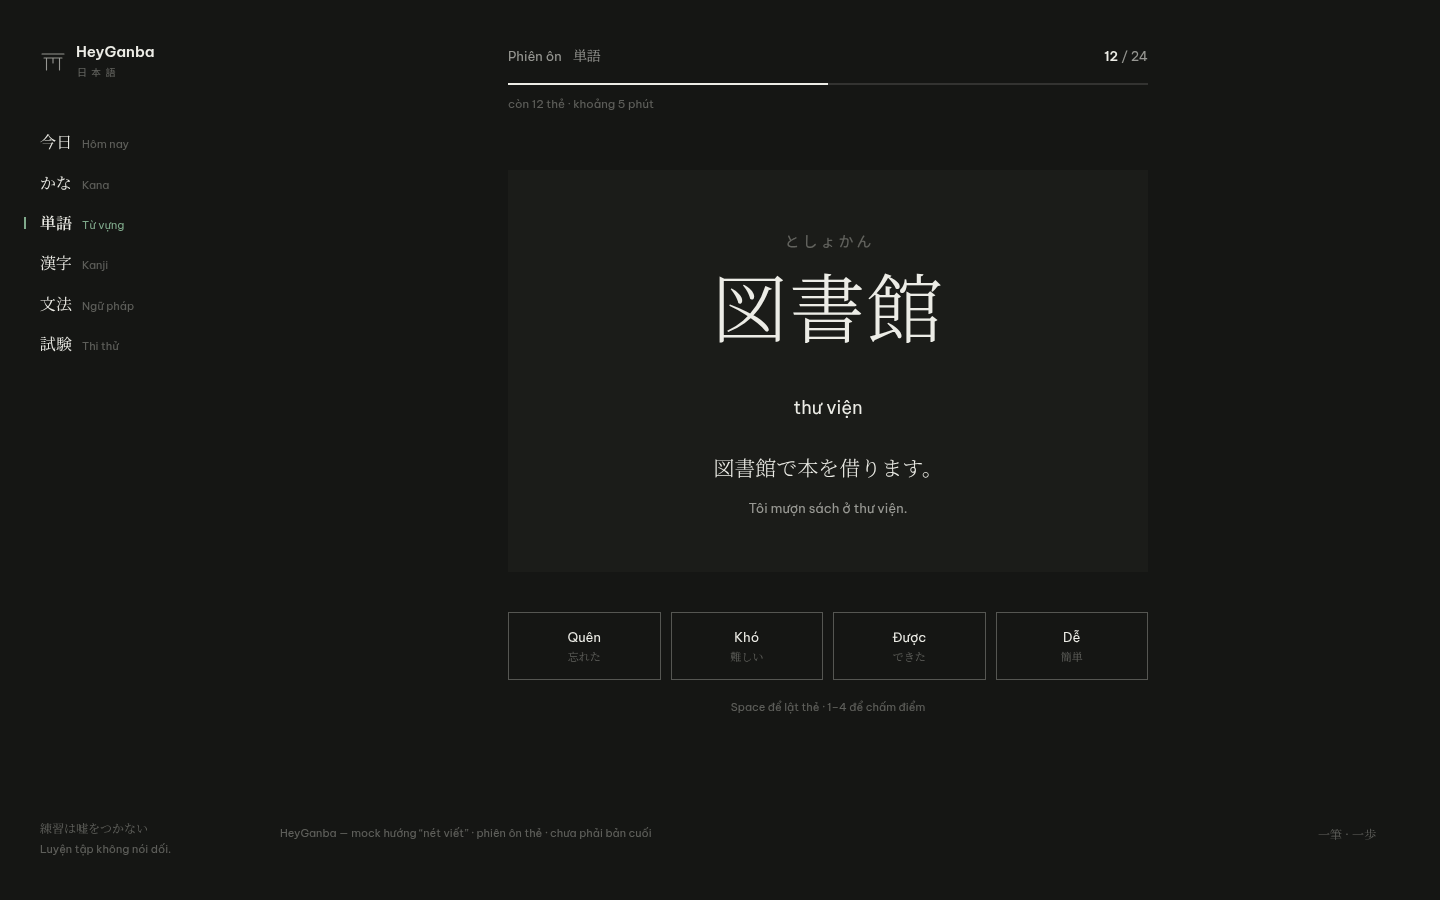
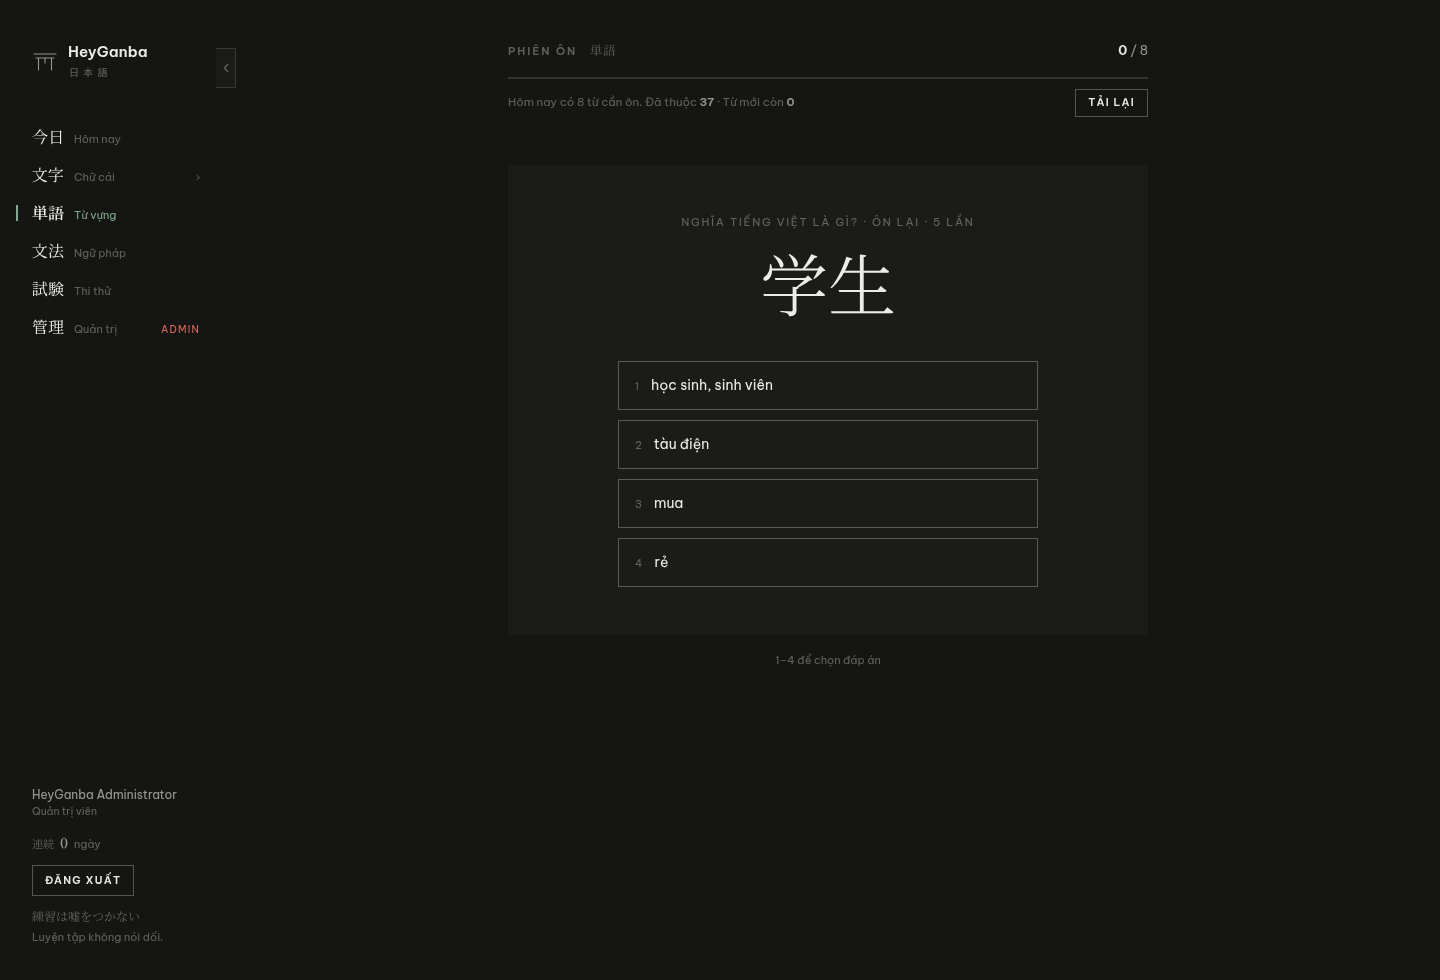
docs(design): refresh PRODUCT/DESIGN/AGENTS and flashcard screenshots
- PRODUCT: multiple-choice session + per-character mastery
- DESIGN: Tailwind workflow, result popup, edge tab toggle
- Lessons: Tailwind cascade-layer trap; SRS in-memory cache when resetting the test DB
- Drop stale mock-flashcard.html; use real-screen screenshots

diff --git a/DESIGN.md b/DESIGN.md
@@ -1,7 +1,7 @@
 # Design — HeyGanba
 
 Hệ thị giác "mực trên giấy", đảo tối. Chữ Nhật là nhân vật chính, chữ Việt là sàn đọc.
-Mock tham chiếu: [`docs/Design/mock-dashboard.html`](docs/Design/mock-dashboard.html) · [`docs/Design/mock-flashcard.html`](docs/Design/mock-flashcard.html)
+Mock tham chiếu: [`docs/Design/mock-dashboard.html`](docs/Design/mock-dashboard.html) · ảnh màn thật trong [`docs/Design/`](docs/Design/)
 
 ![Dashboard](docs/Design/mock-dashboard-desktop.png)
 
@@ -71,7 +71,9 @@ Không dùng font mảnh ở cỡ nhỏ — body tối thiểu 12.5px; nét mả
 
 **Cấp độ** — số serif `22px` + thanh EXP cao `2px`, track `--rule`, fill `--rank`. EXP chỉ cộng từ hoạt động học thật (thẻ ôn, chữ viết, câu trả lời đúng).
 
-**Thẻ học & phiên ôn** — thẻ nền `--card`, padding `60px 56px 52px`; từ `76px` serif, furigana `15px --fg-38`, nghĩa `18px`, ví dụ `21px`, dịch `13px --fg-60`. Chấm điểm: 4 nút `Quên / Khó / Được / Dễ` ngang hàng, viền `1px --rule-strong`, hover đảo mực/giấy. Phím tắt hiện dưới dạng gợi ý nhỏ: `Space để lật thẻ · 1–4 để chấm điểm`.
+**Thông thạo từng chữ** — không hiện thanh trên lưới bảng chữ; chi tiết (âm đọc, thông thạo…) hiện khi chọn một chữ. Trên lưới, mức thông thạo thể hiện bằng **nền ô**: không có dữ liệu = không nền → "Từ mới" = xám nhạt → đậm dần theo mức. Trong danh sách từ, dùng gạch mảnh `2px` màu mực (không dùng xanh — xanh vẫn chỉ thuộc cấp tài khoản).
+
+**Phiên ôn từ vựng — trắc nghiệm** — thẻ nền `--card`; từ hiển thị serif `clamp(44px,9vw,68px)`. Câu hỏi ngẫu nhiên *nghĩa tiếng Việt* hoặc *cách đọc (kana)*; từ thuần kana luôn hỏi nghĩa. 4 đáp án xếp dọc (phím 1–4, nhiễu lấy từ các từ trong phiên). Sau khi chọn, kết quả hiện trong **popup**: kết quả → danh tính của từ (furigana → từ → nghĩa) → khối `Ví dụ` có nhãn → nút `Tiếp theo (Space)`; đáp án sai chọn viền đỏ (`--red`). Đúng → SRS `GOOD`; sai → `FORGOT` (ôn lại phiên sau). Nút `!` cạnh số tiến độ mở panel hướng dẫn.
 
 **Nút & focus** — viền `1px`, radius 0; hover đảo mực/giấy. Focus bàn phím: viền mảnh `1px --fg-38`, offset `3px`.
 
@@ -79,9 +81,10 @@ Không dùng font mảnh ở cỡ nhỏ — body tối thiểu 12.5px; nét mả
 
 ![Dashboard — nav nhóm mở](docs/Design/mock-dashboard-desktop-nav-open.png)
 ![Dashboard — mobile](docs/Design/mock-dashboard-mobile.png)
-![Phiên ôn thẻ](docs/Design/mock-flashcard-desktop.png)
+![Phiên ôn — câu hỏi](docs/Design/mock-flashcard-desktop.png)
+![Phiên ôn — sau khi trả lời](docs/Design/mock-flashcard-answered.png)
 
-*Mock phiên ôn là bản tham chiếu cũ (chưa có nav nhóm) — cập nhật khi build màn đó.*
+*Ảnh phiên ôn chụp từ màn thật (trắc nghiệm) — mock html bản cũ (lật thẻ + tự chấm) đã gỡ.*
 
 ## 5. Còn để ngỏ
 
@@ -93,5 +96,6 @@ Không dùng font mảnh ở cỡ nhỏ — body tối thiểu 12.5px; nét mả
 ## 6. Làm việc với hệ này
 
 - Đọc `PRODUCT.md` (sự thật sản phẩm) trước khi sửa UI
+- Style màn mới bằng **Tailwind v4** với token trong `@theme` (`frontend/src/index.css`): `text-fg-60`, `border-rule`, `font-serif`… — palette/radius/shadow mặc định đã bị xoá khỏi theme, không thể dùng
 - Trước khi đổi bố cục: so với mock trong `docs/Design/`
 - Sau khi sửa UI: chạy detector `.opencode/skills/impeccable/scripts/impeccable detect <đường dẫn>`

diff --git a/docs/Internal/AGENTS.md b/docs/Internal/AGENTS.md
@@ -298,6 +298,24 @@ Sau mỗi phase, agent báo cáo ngắn gọn gồm 3 phần:
 - Khi polish UI: **kiểm tra class có CSS tương ứng** bằng cách so `className` trong `.tsx` với selector trong `index.css`
   (đã gặp 2 class "mồ côi" thật: `.animate-spin` cho spinner của `SubmitButton` và `.w-full`; ngoài ra biến
   `--text-primary` được dùng nhưng chưa từng định nghĩa → phải là `--text-main`).
+- **Cập nhật 28/09/2026 — dự án chuyển sang Tailwind v4:** UI mới viết bằng utility class + token `@theme` trong
+  `frontend/src/index.css` (palette/radius/shadow mặc định đã bị xoá khỏi theme). `index.css` chỉ còn CSS cũ,
+  teo dần theo từng màn — các luật cấu trúc ở trên áp dụng cho tới khi màn cuối cùng chuyển xong.
+- **Cập nhật 28/09/2026 — bẫy cascade layer Tailwind v4 (đã gặp thật):** utility của Tailwind nằm trong layer, còn
+  CSS viết tay không-layer sẽ **thắng** utility bất kể specificity. Triệu chứng đã gặp: `* { margin:0; padding:0 }`
+  cũ nuốt hết `ml-[216px]`, `px-7`, `pt-10` → layout chui dưới sidebar, banner bị cắt, nav mất padding. Cách sửa đang
+  dùng: khai báo `@layer legacy;` **trước** `@import "tailwindcss"` rồi bọc toàn bộ CSS cũ trong `@layer legacy { ... }`.
+  Khi thêm CSS tay mới: viết trong layer (hoặc dùng utility), đừng để ngoài layer.
+
+## Bài học reset dữ liệu test khi SRS dùng cache in-memory (28/09/2026)
+
+- Khi chưa có Redis, backend chạy `app.srs.cache=memory` — `InMemorySrsDueCache` giữ danh sách từ đến hạn theo user
+  **trong RAM**. Reset DB (xoá/seed lại `srs_reviews`) **không** xoá cache → `/flashcard/due-today` vẫn trả danh sách cũ.
+  Triệu chứng đã gặp: stats nói "Còn N từ đến hạn" nhưng phiên trả rỗng ("Xong phiên hôm nay", đã ôn 0 từ).
+  Fix: `docker restart heyganba-backend` sau khi reset DB.
+- Reset nhanh phiên ôn cho user test ở DB local: `DELETE FROM srs_reviews WHERE user_id=<id>` → seed lại `srs_reviews`
+  (một phần `due_date <= now()` để có từ đến hạn) → trả `streaks` + `study_activities` về trạng thái seed.
+  Luôn kiểm tra lại bằng SQL (`count(*) FILTER (WHERE due_date <= now())`) **trước khi** restart backend.
 
 ## Bài học UI mobile: menu phải luôn có "đường thoát" (27/09/2026)
 

diff --git a/PRODUCT.md b/PRODUCT.md
@@ -38,6 +38,8 @@ Kết hợp đồng thời 3 thứ sản phẩm lân cận khó sao chép cùng 
 - Phân quyền RBAC `ROLE_ADMIN` / `ROLE_USER`; đăng nhập JWT.
 - Quy trình duyệt nội dung + endpoint `content/review-status`.
 - Hệ cấp độ + EXP: EXP chỉ cộng từ hoạt động học thật (thẻ ôn, chữ viết, câu trả lời đúng); hiển thị bằng thanh EXP màu đai.
+- Thông thạo từng chữ: mức độ trải nghiệm + độ chính xác theo từng chữ, suy từ dữ liệu học tập hiện có (SRS cho từ vựng, số lần luyện cho kanji; kana bổ sung sau). Về sau dùng để điều chỉnh interval SRS và gợi ý phương pháp nâng cao theo mức thông thạo.
+- Phiên ôn từ vựng là trắc nghiệm (chọn nghĩa tiếng Việt hoặc cách đọc kana); chấm tự động vào SRS: đúng `GOOD`, sai `FORGOT`.
 
 Chưa quyết (không được tự suy diễn):
 

diff --git a/AGENTS.md b/AGENTS.md
@@ -8,7 +8,7 @@ Làm UI:
 
 - Không tự chế màu, font, component ngoài `DESIGN.md`; mục "Còn để ngỏ" của nó — hỏi trước khi quyết.
 - So mock trong `docs/Design/` trước khi đổi bố cục.
-- `frontend/src/index.css` là 1 file lớn — luật cấu trúc ở mục "Bài học CSS frontend" trong `docs/Internal/AGENTS.md`.
+- Style dùng Tailwind v4 + token trong `@theme` (xem `DESIGN.md` mục 6); `index.css` là CSS cũ đang teo dần — màn nào chuyển xong thì xoá CSS cũ của màn đó.
 - Sửa xong: `npm run lint` + `npm run build`, chụp desktop 1440 + mobile 390, tự xem ảnh rồi mới báo hoàn thành.
 
 Không bịa dữ liệu/số liệu/nội dung học thuật; nội dung Nhật mới phải ở luồng chờ duyệt; không commit secret.
